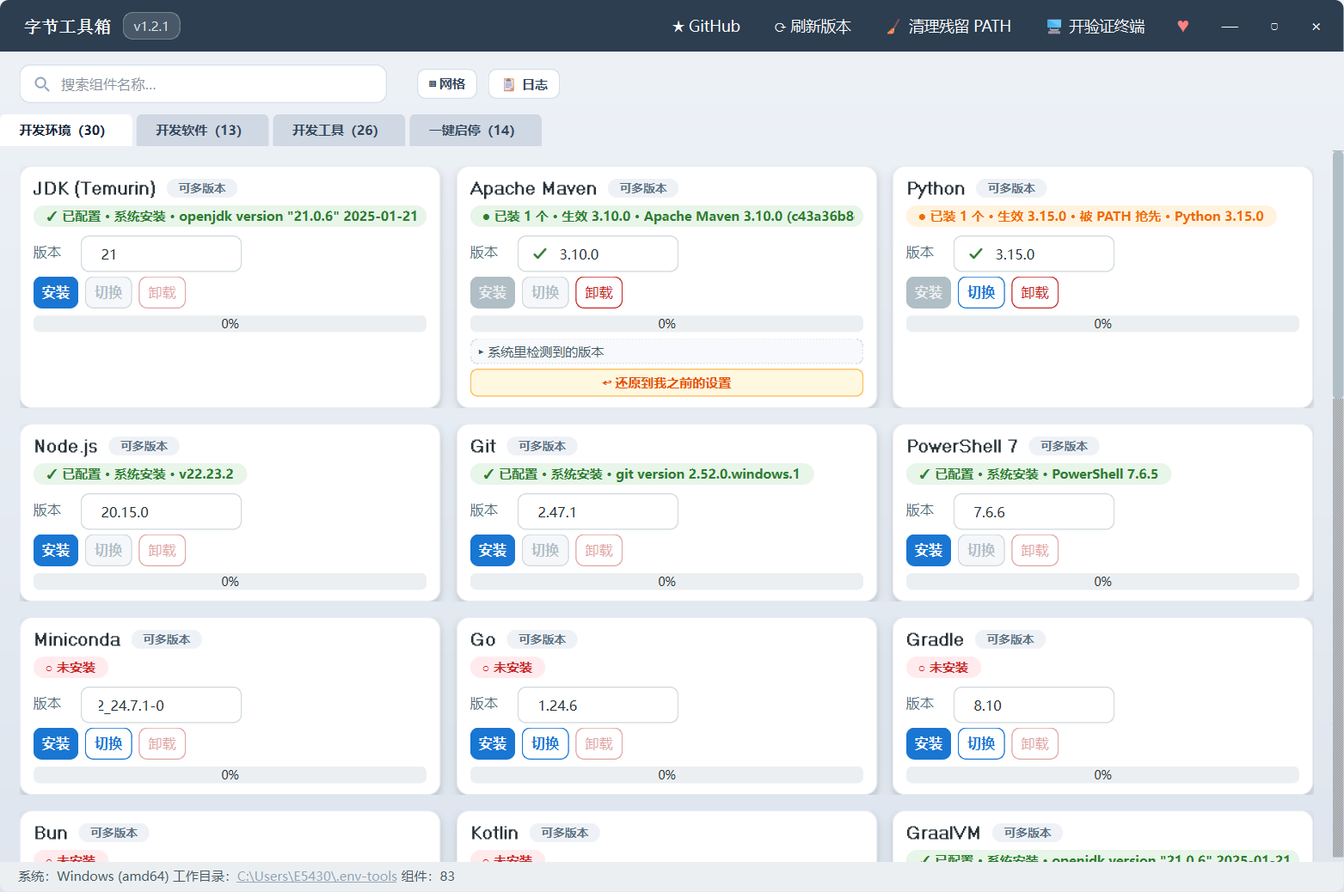
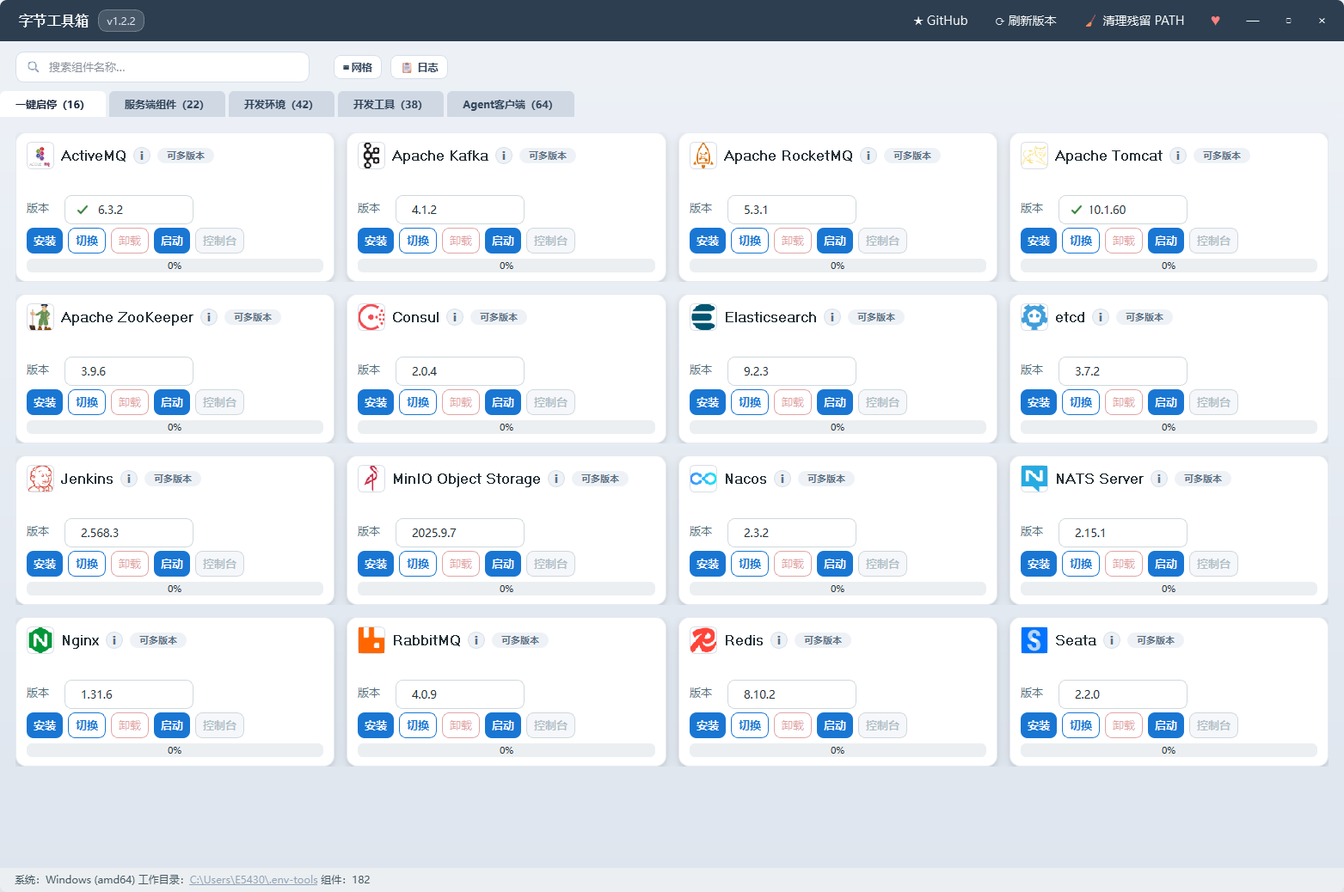
docs(readme): 数字对齐到现状 + 换掉过期的预览图，并把"怎么重出这张图"入库
用户指出这一轮改动大、README 要跟上。逐处核对后发现**中文 README 有 10 处、
英文 README 有 12 处过期数字**，全部按 `build_components()` 现算值订正：

| 位置 | 原写 | 现在 |
|---|---|---|
| 头部三行 / 亮点 | 61 个组件、26 个工具、15 个服务 | **80 / 38 / 16** |
| "关于那 N 个开发工具"（含正文与下载目录两处） | 26 | **38** |
| 搜索条说明与"搜索与过滤"亮点 | 87 个组件 | **182** |
| 多版本那节 | 只下载的 100 个 | **102** |
| 版本缓存那节（一次启动要抓多少个组件） | 77 | **100**（= 可见且有 fetcher 的组件数） |
| 英文版 | 61 components / 26 dev tools / 15 services / 87 components / 59 installable / 77 | 80 / 38 / 16 / 182 / 80 / 100 |

"11 家大陆镜像 + 3 个 GitHub 加速器"复核过仍然是对的（`MIRROR_BASES` 11 条、
`GH_ACCELERATORS` 3 条），没动。

**预览图 `assets/byte-tools-pt.png` 换新**：旧的那张还是 v1.2.1 时代的 ——
四个 Tab、83 个组件，连早就取消的「开发软件」Tab 都还在。新图是当前状态：
标题栏 v1.2.2、五个 Tab 且计数为 16/22/42/38/64、状态栏「组件: 182」、NATS Server 卡片在位。

**同时新增 `tools/bt_shot_readme.py`**，把"怎么重出这张图"钉下来 ——
这张图很容易过期，而上一版没留下任何配方。脚本里写清两条坑：
① **必须走真实平台**：`QT_QPA_PLATFORM=offscreen` 下中文会画成豆腐块（像素护栏查不出），
   所以要在建 `QApplication` **之前**把该变量丢掉（`_btprelude` 会 setdefault 一个 offscreen）；
② **必须把网络与探盘打桩**：不打桩截一张图要等好几分钟，而且会把维护者本机装了哪些版本
   拍进一张要发布到 GitHub 的图里。打桩的代价是卡片状态栏为空 —— 这是**有意的**（宁可不露版本号）。

本地全量回归 950 条 / 20 套件全绿。

diff --git a/tools/bt_shot_readme.py b/tools/bt_shot_readme.py
@@ -1,0 +1,72 @@
+r"""重新生成 README 里的主界面预览图（assets/byte-tools-pt.png）。
+
+用法（在仓库根目录，**不要**设 QT_QPA_PLATFORM）：
+    .venv/Scripts/python.exe tools/bt_shot_readme.py
+
+为什么必须有这个脚本：这张图是 README 的门面，而**它很容易过期** ——
+2026-10-16 更新前用的那张还是 v1.2.1 时代的（四个 Tab、83 个组件、
+连已取消的「开发软件」Tab 都还在）。手截一张再手动替换的做法没有留下任何配方，
+下一个人只会看到"图不对了、但不知道怎么重做"。这里把做法钉下来。
+
+⚠ **必须走真实平台**（与 `bt_make_name_icons.py` 同一条坑）：
+`QT_QPA_PLATFORM=offscreen` 下 Qt 换了一套不含系统字体的字体库，
+中文会画成一个个空心方块（豆腐块），而像素护栏查不出（图上确实有东西）。
+所以本脚本第一件事是把该变量**丢掉**，并且要在建 `QApplication` **之前**丢 ——
+`_btprelude` 会 `setdefault` 一个 offscreen 进去，晚丢就不起作用了。
+
+另一件必须做的事：**把网络与磁盘探测打桩**。
+`MainWindow` 一 show 就会 `_start_fetch_versions` 去抓 182 个组件的版本，
+还会逐卡 `_detect_status` 探盘 —— 不打桩的话截一张图要等好几分钟网络。
+打桩还有个附带好处：卡片上的状态栏是空的，**不会把维护者本机装了哪些版本
+（jdk 21.0.6 / git 2.52.0 之类）拍进一张要发布到 GitHub 的图里**。
+"""
+from __future__ import annotations
+
+import os
+import sys
+import time
+from pathlib import Path
+
+# ---- 必须排在建 QApplication 之前：抢在 _btprelude 的 setdefault 之前把 offscreen 丢掉
+_dropped = os.environ.pop("QT_QPA_PLATFORM", None)
+if _dropped is not None:
+    print(f"已移除 QT_QPA_PLATFORM={_dropped}（本脚本必须走真实平台，否则中文是豆腐块）")
+
+from PySide6.QtCore import QPoint                        # noqa: E402
+from PySide6.QtGui import QImage, QPainter                # noqa: E402
+from PySide6.QtWidgets import QApplication                # noqa: E402
+
+REPO_ROOT = Path(__file__).resolve().parents[1]
+sys.path.insert(0, str(REPO_ROOT))
+sys.path.insert(0, str(REPO_ROOT / "tests"))
+
+app = QApplication(sys.argv)
+print("Qt 平台 =", app.platformName())
+
+import _btprelude  # noqa: E402  必须在 QApplication 之后 import（见模块 docstring）
+import main        # noqa: E402
+
+# 打桩：不联网抓版本、不探盘（见 docstring 里的两条理由）
+main.ComponentCard._detect_status = lambda self, *a, **k: None
+main.MainWindow._start_fetch_versions = lambda self, *a, **k: None
+
+WIDTH, HEIGHT = 1563, 1038          # 与上一版预览图同尺寸，README 里按 width=860 展示
+win = main.MainWindow()
+win.resize(WIDTH, HEIGHT)
+win.show()
+for _ in range(12):                 # 等分帧建卡（启动画面那套）跑完
+    app.processEvents()
+    time.sleep(0.12)
+app.processEvents()
+
+img = QImage(WIDTH, HEIGHT, QImage.Format_ARGB32)
+img.fill(0)
+painter = QPainter(img)
+win.render(painter, QPoint(0, 0))
+painter.end()
+
+out = REPO_ROOT / "assets" / "byte-tools-pt.png"
+img.save(str(out))
+print(f"已写出 {out}（{out.stat().st_size} 字节，{img.width()}x{img.height()}）")
+print("页签：", [win.tabs.tabText(i) for i in range(win.tabs.count())])
+print("核对：图上的页签计数与状态栏组件数应当与 `build_components()` 现算值一致")

diff --git a/README_EN.md b/README_EN.md
@@ -6,8 +6,8 @@
 
 <p align="center">
   Set up a complete development environment on a fresh Windows / macOS / Linux machine<br/>
-  <b>with a few clicks</b>.   <b>61 components</b> are handled end to end (download → unpack → set environment variables),<br/>
-  <b>26 dev tools</b> get official installer direct links (download only), and <b>15 services</b> can be started and stopped in one click.
+  <b>with a few clicks</b>.   <b>80 components</b> are handled end to end (download → unpack → set environment variables),<br/>
+  <b>38 dev tools</b> get official installer direct links (download only), and <b>16 services</b> can be started and stopped in one click.
 </p>
 
 <p align="center">
@@ -80,18 +80,18 @@ Your OS may block the app on first launch. That is a "nobody paid for a code sig
 ## Highlights
 
 - **One codebase, three platforms**: detects OS and CPU architecture (on Apple Silicon JDK resolves to aarch64, Node to arm64).
-- **61 components installed end to end**: download → unpack → `XXX_HOME` + `PATH`, ready to use immediately.
-- **26 dev tools, download only**: IDEs / database clients / terminals get official installer direct links, with a live version list, downloaded to a directory of your choosing (remembered between runs; you can open the folder afterwards). **This tool does not unpack them, does not set environment variables for them, and does not run installers on your behalf** — licence acceptance and install steps are yours. Where upstream ships both an installer and a portable archive (IDEA / PyCharm / CLion / WebStorm / GoLand / DataGrip / VS Code / DBX), the button reads **"Download ▾"** so you can pick which one, sizes shown.
-- **15 services start and stop in one click**: Tomcat, Nginx, ActiveMQ, RocketMQ, Kafka, Elasticsearch, Seata, Nacos, RabbitMQ, Jenkins, Redis, etcd, Consul, Apache ZooKeeper, MinIO. Port conflicts are handled by a documented policy and explained in a confirmation dialog (ports are never silently shifted — shifting them breaks external clients). If "Stop" cannot stop cleanly, the tool only asks whether to force-kill; it never kills behind your back. Liveness is judged by **the whole port cluster listening** (Nacos main port + gRPC, Kafka 9092+9093, RocketMQ namesrv+broker). Running services are still recognised after you close and reopen the tool, and status detection **never executes a start script**. Protocol-port components that cannot be viewed in a browser (Kafka / RocketMQ / RabbitMQ) get a status page served by the tool itself: state, ports, how to connect, credentials and log paths — and it **flips to "stopped" on refresh once the service is gone**, instead of a notice that forever claims success. All of them were verified one by one on a real Windows machine through the full cycle (download/install → start → cluster ports listening → protocol probe, e.g. `rabbitmqctl status`, Kafka `BrokerApiVersions` → stop → ports released). **macOS and Linux are not yet verified on real hardware** (see rule R5 in `DEVELOPMENT.md`).
+- **80 components installed end to end**: download → unpack → `XXX_HOME` + `PATH`, ready to use immediately.
+- **38 dev tools, download only**: IDEs / database clients / terminals get official installer direct links, with a live version list, downloaded to a directory of your choosing (remembered between runs; you can open the folder afterwards). **This tool does not unpack them, does not set environment variables for them, and does not run installers on your behalf** — licence acceptance and install steps are yours. Where upstream ships both an installer and a portable archive (IDEA / PyCharm / CLion / WebStorm / GoLand / DataGrip / VS Code / DBX), the button reads **"Download ▾"** so you can pick which one, sizes shown.
+- **16 services start and stop in one click**: Tomcat, Nginx, ActiveMQ, RocketMQ, Kafka, Elasticsearch, Seata, Nacos, RabbitMQ, Jenkins, Redis, NATS Server, etcd, Consul, Apache ZooKeeper, MinIO. Port conflicts are handled by a documented policy and explained in a confirmation dialog (ports are never silently shifted — shifting them breaks external clients). If "Stop" cannot stop cleanly, the tool only asks whether to force-kill; it never kills behind your back. Liveness is judged by **the whole port cluster listening** (Nacos main port + gRPC, Kafka 9092+9093, RocketMQ namesrv+broker). Running services are still recognised after you close and reopen the tool, and status detection **never executes a start script**. Protocol-port components that cannot be viewed in a browser (Kafka / RocketMQ / RabbitMQ) get a status page served by the tool itself: state, ports, how to connect, credentials and log paths — and it **flips to "stopped" on refresh once the service is gone**, instead of a notice that forever claims success. All of them were verified one by one on a real Windows machine through the full cycle (download/install → start → cluster ports listening → protocol probe, e.g. `rabbitmqctl status`, Kafka `BrokerApiVersions` → stop → ports released). **macOS and Linux are not yet verified on real hardware** (see rule R5 in `DEVELOPMENT.md`).
 - **Prerequisite runtimes installed automatically**: components that need a JDK (Jenkins / Nacos / Kafka / RocketMQ / ActiveMQ / Tomcat / Seata) will download a suitable JDK first, then continue starting; same for the Erlang/OTP that RabbitMQ needs (27.x / 26.x matched to the RabbitMQ version). You never have to prepare dependencies yourself.
 - **China-first mirrors with multi-source failover**: 11 mainland mirror bases and 3 GitHub accelerators, tried mainland-first, falling back to the official origin last, all narrated in the log. **No URL editing needed** (a few components genuinely have no mainland mirror — see [Platform support and exceptions](#platform-support-and-exceptions)).
-- **Multiple coexisting versions + an explicit "active version"**: all 59 installable components can keep several versions side by side (opened to everything on 2026-06-06), and you name which one is active. A failed switch rolls back automatically, so you never end up with "variable points to A, `PATH` points to B". A **green tick** in the version dropdown means that version is already installed on disk.
+- **Multiple coexisting versions + an explicit "active version"**: all 80 installable components can keep several versions side by side (opened to everything on 2026-06-06), and you name which one is active. A failed switch rolls back automatically, so you never end up with "variable points to A, `PATH` points to B". A **green tick** in the version dropdown means that version is already installed on disk.
 - **Take over installations you put there yourself — and revert with one click**: JDK / Maven / Node etc. already on the machine, outside this tool's directory, can be discovered and made active (the scan is read-only and each candidate is confirmed by actually running its version command). Before touching your system settings the original text is snapshotted, and it can be written back verbatim. Five hard gates (original snapshot / minimal edit / critical-entry validation / re-verification / revertibility) must all pass or the operation is rolled back.
 - **Uninstall removes only the version you selected**: other versions' directories, variables and `PATH` entries are untouched; deleting the active version triggers an automatic re-pick. The title bar's **"🧹 Clean PATH"（清理残留 PATH）** button clears dead entries that point into this tool's directory but no longer exist.
 - **Update check that never replaces itself**: the version chip in the title bar doubles as a status light (six states, see [UI tour](#ui-tour)). When a newer release exists, one click downloads it to your chosen directory — **it never renames or overwrites the running program**, and it uploads nothing about you.
 - **Download reliability**: every request carries a dedicated `byte-tools` User-Agent (several university mirrors 403 the default UA), and the byte count is verified after the download, so a "fake 200 empty file" from a mirror triggers a source switch rather than leaving you a broken archive.
 - **Live version lists + a 24-hour cache**: version lists are fetched from official APIs/indexes at startup and cached on disk for a day (this saves GitHub's anonymous rate budget); when a fetch fails the tool quietly falls back to its built-in list, so it stays usable offline.
-- **Search and filtering**: 87 components do not need page-by-page browsing — the search box above the tabs fuzzy-matches names and keys across all of them and groups hits by category; version dropdowns accept typing (`21`, `3.12`, `LTS`).
+- **Search and filtering**: 182 components do not need page-by-page browsing — the search box above the tabs fuzzy-matches names and keys across all of them and groups hits by category; version dropdowns accept typing (`21`, `3.12`, `LTS`).
 - **Environment variables without `setx`**: Windows writes the registry directly via `winreg` (`setx` truncates at 1024 characters), edits `PATH` entry by entry, and notifies Explorer by name after every write; macOS / Linux write a marked, idempotent block into your shell rc files.
 - **UI**: frameless custom window, cards that re-flow into columns based on window width (toggle "▦ Grid / ☰ List"), gradient progress bars, status capsules, colour-coded Chinese log overlay (collapsed by default, auto-opens on warn/error with an unread counter), window icon visible in the taskbar and Alt+Tab, and remembered per-component version choices.
 - **It says so when a platform is unsupported**: two components have no portable form on Windows (`Docker`, `Pulsar`). The card states why and what to do instead — it will not install something that cannot run and leave you guessing.
@@ -106,7 +106,7 @@ Your OS may block the app on first launch. That is a "nobody paid for a code sig
    |---|---|
    | 🟢 `✓ Configured (PATH) · openjdk version "17.0.10"` | Already findable by the system; nothing to install (the exact version is filled in asynchronously) |
    | 🟠 `● Downloaded, not configured` | Archive is local, environment variables are not set yet |
-   | 🟢 `● 2 versions installed · active 21 (21, 17)` | All 59 installable components use this form: parenthesised list = what is on disk (newest first); `active 21` = the one in use |
+   | 🟢 `● 2 versions installed · active 21 (21, 17)` | All 80 installable components use this form: parenthesised list = what is on disk (newest first); `active 21` = the one in use |
    | 🟠 `● 2 versions installed · none active (21, 17)` | Versions installed, but the system's `XXX_HOME` / `PATH` points to none of them |
    | 🔴 `○ Not installed` | Nothing installed |
 
@@ -277,7 +277,7 @@ None of these has an `XXX_HOME` concept — the tool unpacks them into `~/.env-t
 | pnpm | `pnpm --version` | 12.x | Node package manager. **Binary only** — it does not touch `corepack` or global `node_modules`; run `corepack enable` yourself if you want it to take over `npm`. |
 | uv | `uv --version` | 0.13.x | Python package / environment manager, see [Python distributions](#python-distributions). |
 | protoc | `protoc --version` | 36.x | See [Build tools](#build-tools). |
-### About those 26 "Dev tools"
+### About those 38 "Dev tools"
 
 They are GUI applications; this tool's only job is to fetch the official installer into the directory you choose. Their cards therefore have **only a version dropdown and a download button** — no green tick, no disk scan, no switch or uninstall buttons, no unpacking, no environment variables.
 
@@ -314,7 +314,7 @@ Auto-download requires that upstream publishes something you can unpack and use.
 
 ### Multiple versions and the active version
 
-All 59 installable components keep one directory per version (the 26 download-only tools put nothing on disk, so they are outside this category): `~/.env-tools/<component>/<component>-<version>/` (e.g. `jdk-21` and `jdk-17` side by side). "Active version" in the UI means "the one the system is currently using".
+All 80 installable components keep one directory per version (the 38 download-only tools put nothing on disk, so they are outside this category): `~/.env-tools/<component>/<component>-<version>/` (e.g. `jdk-21` and `jdk-17` side by side). "Active version" in the UI means "the one the system is currently using".
 
 - **Green tick = installed on disk.** Ticked versions can be uninstalled; unticked ones keep the button disabled (there would be nothing to remove).
 - **Installed versions always reappear in the dropdown.** Live lists change; a version may be dropped upstream while it is still on your disk. The dropdown re-inserts it, sorted by version, with its tick — otherwise that version could not be selected, switched to, or uninstalled except by deleting the directory by hand. The back-fill applies to every installable component alike (since 2026-10-06); before that only multi-version components got it, so jenkins / nacos still hit the case of something installed that the live list no longer carries.
@@ -508,7 +508,7 @@ components.append(
 
 ### Version cache and GitHub's quota
 
-Fetched version lists are **cached on disk** (`~/.env-tools/version_cache.json`, not re-fetched within a day). The reason is concrete: GitHub's anonymous API allows **60 requests/hour per IP**, while one startup would otherwise fetch lists for 77 components (many of them against GitHub) — a second launch inside the same hour, or a few refresh clicks, exhausts the budget and produces a wall of "fetch failed" lines.
+Fetched version lists are **cached on disk** (`~/.env-tools/version_cache.json`, not re-fetched within a day). The reason is concrete: GitHub's anonymous API allows **60 requests/hour per IP**, while one startup would otherwise fetch lists for 100 components (many of them against GitHub) — a second launch inside the same hour, or a few refresh clicks, exhausts the budget and produces a wall of "fetch failed" lines.
 
 - On a cache hit the log says "reusing version lists fetched within 24 hours (N components)" and makes no requests.
 - For genuinely newest numbers, press **"⟳ Refresh versions"** — it bypasses the cache.
@@ -522,7 +522,7 @@ The component working directory defaults to `~/.env-tools/`; change it at the to
 CONFIG_DIR = Path.home() / ".env-tools"
 ```
 
-The **download directory** for the 26 dev tools is a separate preference: remembered from the first download (stored in `config.json`), falling back to the system Downloads folder when unset or deleted. It is not part of the working directory.
+The **download directory** for the 38 dev tools is a separate preference: remembered from the first download (stored in `config.json`), falling back to the system Downloads folder when unset or deleted. It is not part of the working directory.
 
 ---
 

diff --git a/README.md b/README.md
@@ -6,8 +6,8 @@
 
 <p align="center">
   一台新 Windows / macOS / Linux 机器，<b>点几下鼠标就装好整套开发环境</b>。<br/>
-  <b>61 个</b>常用组件全流程自动（下载 → 解压 → 写环境变量 → 自检），<br/>
-  <b>26 个</b>常用开发工具给官方安装包直链（只下载），<b>15 个</b>服务另支持一键启停与访问页直达。
+  <b>80 个</b>常用组件全流程自动（下载 → 解压 → 写环境变量 → 自检），<br/>
+  <b>38 个</b>常用开发工具给官方安装包直链（只下载），<b>16 个</b>服务另支持一键启停与访问页直达。
 </p>
 
 <p align="center">
@@ -77,7 +77,7 @@
 
 - **一份代码三平台**：自动判断系统与 CPU 架构（Apple Silicon 下 JDK 走 aarch64、Node 走 arm64）。
 - **80 个组件一键装配**：下载 → 解压 → `XXX_HOME` + `PATH` 全流程自动，装完即用。
-- **26 个开发工具只下载**：IDE / 数据库客户端 / API 工具 / 终端类给官方安装包直链，能看版本清单、点「下载」下到你选的目录（记住上次位置，下完可打开所在文件夹）。**本工具不解压、不配环境变量、不代跑安装程序**——授权与安装步骤由你自己确认。官方同时发安装器与便携包的（IDEA / PyCharm / CLion / WebStorm / GoLand / DataGrip / VS Code / DBX，以及 HeidiSQL / Bruno / Another Redis Desktop Manager / MongoDB Compass / MySQL Workbench），按钮写成「下载 ▾」，点开让你挑哪一种、并标着体积。
+- **38 个开发工具只下载**：IDE / 数据库客户端 / API 工具 / 终端类给官方安装包直链，能看版本清单、点「下载」下到你选的目录（记住上次位置，下完可打开所在文件夹）。**本工具不解压、不配环境变量、不代跑安装程序**——授权与安装步骤由你自己确认。官方同时发安装器与便携包的（IDEA / PyCharm / CLion / WebStorm / GoLand / DataGrip / VS Code / DBX，以及 HeidiSQL / Bruno / Another Redis Desktop Manager / MongoDB Compass / MySQL Workbench），按钮写成「下载 ▾」，点开让你挑哪一种、并标着体积。
 - **16 个服务一键启停**：Tomcat、Nginx、ActiveMQ、RocketMQ、Kafka、Elasticsearch、Seata、Nacos、RabbitMQ、Jenkins、Redis、NATS Server、etcd、Consul、Apache ZooKeeper、MinIO 不必再自己敲启动脚本。端口被占用时按既定策略处理并在确认框里说清楚（不平移端口——平移会让外部客户端连不上）；「停止」停不下来时只询问是否强制结束，不会背着你强杀。状态以**端口整簇是否都在听**为准（Nacos 的主口 + gRPC、Kafka 的 9092+9093、RocketMQ 的 namesrv+broker、etcd 的 2379+2380 都算），关掉工具重开也认得出正在跑什么，且识别状态的过程**绝不执行任何启动脚本**。Kafka / RocketMQ / RabbitMQ 这类"浏览器打开必然失败"的协议端口型组件，由工具自带的小服务给一张状态页——写着运行状态、端口、访问方式、登录信息与日志路径，**服务停掉后刷新会自动变成"已停止"**，不会留一张永远说"成功"的假告示。已在 Windows 真机逐个跑完「下载安装 → 启动 → 整簇端口监听 → 协议探活（如 `rabbitmqctl status`、Kafka `BrokerApiVersions`）→ 停止 → 端口释放」；**macOS 与 Linux 尚未真机验证**（见 `DEVELOPMENT.md` 规则 R5）。
 - **前置运行时自动就位**：需要 JDK 的组件（Jenkins / Nacos / Kafka / RocketMQ / ActiveMQ / Tomcat / Seata）在本机没有 JDK 或版本太低时，点「启动」会先自动下载安装一个够用的 JDK 再继续；RabbitMQ 需要的 Erlang/OTP 同理（按 RabbitMQ 版本自动配 27.x / 26.x）。用户不需要自己准备任何前置依赖，也不用手改文件。
 - **国内镜像优先 + 多源故障转移**：内置 11 家大陆镜像基址与 3 个 GitHub 加速器，按"大陆源在前 → 逐个换源 → 末位回退官网"走，全程中文日志，**无需手动改 URL**（少数组件只有官网一个源，见[平台支持与例外](#平台支持与例外)）。
@@ -87,7 +87,7 @@
 - **检查更新，但不替换自己**：标题栏那颗版本号兼任状态灯（六种状态见[界面导览](#界面导览)）。发现新版点一下就直接下到你选的目录，**不会改名或覆盖正在运行的程序**，也不上传任何用户信息。
 - **下载可靠性**：所有请求固定携带专用 User-Agent（部分高校镜像站会屏蔽默认 UA 返回 403）；下载完成后校验实际字节数，遇到"假 200 空文件"自动换下一个源，不会留下坏包。
 - **动态版本清单 + 24 小时缓存**：启动后从各家官方 API / 索引拉最新版本，拉到的清单落盘缓存一天（省 GitHub 的匿名额度），拉不到就安静回退内置清单，离线也能用。
-- **搜索与过滤**：87 个组件不必逐页翻——顶部搜索框按名称 / 标识全组件模糊过滤，命中项按分类归并到同一结果列表（带分类小标题），清空即恢复；版本下拉框可直接键入 `21` / `3.12` / `LTS` 实时过滤。
+- **搜索与过滤**：182 个组件不必逐页翻——顶部搜索框按名称 / 标识全组件模糊过滤，命中项按分类归并到同一结果列表（带分类小标题），清空即恢复；版本下拉框可直接键入 `21` / `3.12` / `LTS` 实时过滤。
 - **环境变量写入不用 `setx`**：Windows 用 `winreg` 直写注册表（`setx` 有 1024 字符截断），按单条目增删 `PATH`，写完点名通知资源管理器；macOS / Linux 写入带标记的 shell 配置块，幂等更新。
 - **界面**：无边框自定义窗口、卡片按窗口宽度自动分列（可切「▦ 网格 / ☰ 列表」）、渐变进度条、状态胶囊标签、彩色分级中文日志（浮层可收起，**不会自己弹出来**——出现 warn / error 只在「📋 日志」按钮上挂一个未读条数）、窗口图标在任务栏与 Alt+Tab 可见、记住上次每个组件选中的版本。
 - **平台不支持时会说清楚**：有 2 个组件在 Windows 上没有可用的免安装形态（`Docker`、`Pulsar`），卡片上会写明原因并给替代做法，**不会**先装一个跑不起来的东西再让你自己猜。
@@ -112,7 +112,7 @@
 3. 点「安装」，工具依次做：流式下载到 `~/.env-tools/<组件>/downloads/`（镜像优先、失败自动换源、可随时取消）→ 解压到 `~/.env-tools/<组件>/<组件>-<版本>/`（Miniconda 走静默安装器）→ 写 `XXX_HOME` 并把 `bin` 加进 `PATH` → 刷新该卡片状态。同一组件的旧版本目录**不会被删**，装第二个版本就是多版本并存。
 4. 想看每一步细节，点搜索条上的「📋 日志」。
 
-按钮的两条可用性规则：**下拉框选中的版本磁盘上已经装着时，「安装」是灰的**（悬停提示"要重新安装请先点「卸载」"，避免覆盖已装好的目录；想重装就先卸载再装。「开发工具」那 26 个是「下载」按钮，不适用这条）；**选中的版本已经是生效版本时，「切换」是灰的**（悬停提示"要换版本先在下拉框里选中"）。
+按钮的两条可用性规则：**下拉框选中的版本磁盘上已经装着时，「安装」是灰的**（悬停提示"要重新安装请先点「卸载」"，避免覆盖已装好的目录；想重装就先卸载再装。「开发工具」那 38 个是「下载」按钮，不适用这条）；**选中的版本已经是生效版本时，「切换」是灰的**（悬停提示"要换版本先在下拉框里选中"）。
 
 装完之后**新开一个终端**验证：
 
@@ -279,7 +279,7 @@ node -v
 | uv | `uv --version` | 0.13.x | Python 包 / 环境管理器，见上面 [Python 发行版](#python-发行版) |
 | protoc | `protoc --version` | 36.x | 见上面 [构建工具](#构建工具) |
 
-### 关于那 26 个「开发工具」
+### 关于那 38 个「开发工具」
 
 它们是 GUI 软件，本工具只负责"把官方安装包下到你选的目录"，所以卡片上**只有版本下拉框和下载按钮**——没有绿勾、不扫你的磁盘、没有切换与卸载按钮，也不会解压或写环境变量。
 
@@ -316,7 +316,7 @@ node -v
 
 ### 同一组件装多个版本，切换「生效版本」
 
-80 个可装配组件全都支持多版本并存（只下载的 100 个磁盘上不落东西，不在这一类），每个版本一个目录：`~/.env-tools/<组件>/<组件>-<版本>/`（例如 `jdk-21` 与 `jdk-17` 并存）。界面上的「生效版本」指明"系统现在实际在用哪一个"。
+80 个可装配组件全都支持多版本并存（只下载的 102 个磁盘上不落东西，不在这一类），每个版本一个目录：`~/.env-tools/<组件>/<组件>-<版本>/`（例如 `jdk-21` 与 `jdk-17` 并存）。界面上的「生效版本」指明"系统现在实际在用哪一个"。
 
 - **绿色对勾 = 磁盘上已装**。带勾的版本可以直接点「卸载」；没勾的点了也没东西可删，所以「卸载」是灰的。
 - **已装版本一定会出现在下拉框里**。在线清单会更新，某个版本可能已被挪出清单但你磁盘上还装着——这时下拉框会按版本号大小把它补回原位并带上绿勾；否则这种版本既选不中、也切不了、还卸不掉，只能手工删目录。补录对所有可装配组件一视同仁（2026-10-06 起）——原先只给多版本组件补，jenkins / nacos 这类照样会遇到「清单里没有、磁盘上装着」。
@@ -399,7 +399,7 @@ where java
 |---|---|
 | 标题栏（左） | 图标 + 软件名 + **版本号 chip**。chip 兼任状态灯：普通 = 还没查；`⟳ v1.2.2 检查中` = 正在查；`v1.2.2 最新` = 已是最新；`↓ v1.2.3 待更新`（琥珀色）= 有新版，**点一下直接下载**；`↓ 37%` = 正在下载；`? v1.2.2 未查到`（灰色虚线）= 没查到，tooltip 写明失败原因。**任何时刻版本号都在**——报问题第一眼要能对上版本 |
 | 标题栏（右） | 「★ GitHub」打开仓库 · 「⟳ 刷新版本」绕过缓存强制重抓在线清单 · 「🧹 清理残留 PATH」清死条目 · 「♥」支持作者 · 最小化 / 最大化 / 关闭 |
-| 搜索条 | 组件搜索框（按名称 / 标识模糊过滤，右侧实时显示"匹配 N / 87 个组件"）；搜索时收起 Tab，把命中组件按分类归并到同一结果列表（带分类小标题），一眼看全、不用切页，清空即恢复；旁边是「▦ 网格 / ☰ 列表」视图切换与「📋 日志」开关 |
+| 搜索条 | 组件搜索框（按名称 / 标识模糊过滤，右侧实时显示"匹配 N / 182 个组件"）；搜索时收起 Tab，把命中组件按分类归并到同一结果列表（带分类小标题），一眼看全、不用切页，清空即恢复；旁边是「▦ 网格 / ☰ 列表」视图切换与「📋 日志」开关 |
 | 卡片区 | 四个横向 Tab（标题带数量）。每张卡片：名称、状态标签（悬停看完整说明）、版本下拉（可搜索，磁盘已装的带绿勾）、操作按钮（安装 / 切换 / 卸载，可启停的还有启动 / 停止 / 控制台或访问页，只下载的只有下载）、渐变进度条。卡片按窗口宽度自动分列 |
 | 日志浮层 | 默认收起、浮在卡片区下方；点「📋 日志」展开、再点收起。**不会自动弹开**——出现 warn / error 时只在按钮上挂未读条数（`📋 日志 (N)`），想看才点。浮层里可「导出诊断」（诊断报告 + 本次会话日志，反馈问题时附上它）。四色分级（info 灰、ok 绿、warn 橙、error 红），全程中文（含镜像切换与故障转移过程） |
 | 底部状态栏 | 系统信息、**可点开的工作目录**（点一下在资源管理器里打开）、组件计数。版本号不在这里，在标题栏那颗 chip |
@@ -515,7 +515,7 @@ components.append(
 
 ### 版本清单缓存与 GitHub 额度
 
-在线版本清单**抓成功会落盘**（`~/.env-tools/version_cache.json`，一天内不重抓）。原因很实际：GitHub 匿名 API 的额度是**每个 IP 每小时 60 次**，而本工具一次启动要替 77 个组件各抓一次版本清单（其中一大批打的正是 GitHub API）——一小时内第二次打开工具、或者连点几次刷新，额度就会见底，日志里就会出现成片的"获取失败"。
+在线版本清单**抓成功会落盘**（`~/.env-tools/version_cache.json`，一天内不重抓）。原因很实际：GitHub 匿名 API 的额度是**每个 IP 每小时 60 次**，而本工具一次启动要替 100 个组件各抓一次版本清单（其中一大批打的正是 GitHub API）——一小时内第二次打开工具、或者连点几次刷新，额度就会见底，日志里就会出现成片的"获取失败"。
 
 - 命中缓存时日志会写"沿用 24 小时内抓到的版本清单（N 个组件）"，这次不打网络。
 - 想要最新版本号，点 **「⟳ 刷新版本」**——它绕过缓存强制重抓。
@@ -529,7 +529,7 @@ components.append(
 CONFIG_DIR = Path.home() / ".env-tools"
 ```
 
-「开发工具」那 26 个的**下载目录**是另一件事：第一次下载时记住你选的目录（存在 `config.json`），之后默认落在同一个位置；没记录过、或那个目录后来被删了，就回落到系统「下载」文件夹。这个目录不属于工作目录。
+「开发工具」那 38 个的**下载目录**是另一件事：第一次下载时记住你选的目录（存在 `config.json`），之后默认落在同一个位置；没记录过、或那个目录后来被删了，就回落到系统「下载」文件夹。这个目录不属于工作目录。
 
 ---
 
